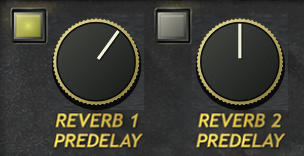
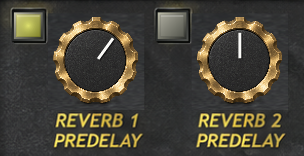
Add high-resolution raised brass knobs with crisp animated indicators

Changed region(s): [[0.6217, 0.1026, 0.9474, 0.7179], [0.148, 0.1026, 0.4737, 0.7179]]

diff --git a/Source/PluginEditor.cpp b/Source/PluginEditor.cpp
@@ -48,6 +48,7 @@ void UnpluggedEditor::Skin::drawButtonBackground(juce::Graphics& g,juce::Button&
     const bool lit=static_cast<bool>(b.getProperties().getWithDefault("colourSelector",false))
         ? static_cast<bool>(b.getProperties().getWithDefault("lit",true)) : b.getToggleState();
     auto r=b.getLocalBounds().toFloat().reduced(1);
+    if(down)r.translate(1,1);
     const bool small=r.getWidth()<45;
     g.setColour(juce::Colour(0xcc030403)); g.fillRect(r.translated(2,3));
     g.setGradientFill(juce::ColourGradient(juce::Colour(0xff0a0c0d),r.getTopLeft(),
@@ -82,7 +83,7 @@ void UnpluggedEditor::Skin::drawButtonText(juce::Graphics& g,juce::TextButton& b
         LookAndFeel_V4::drawButtonText(g,b,over,down); return;
     }
     g.setColour(juce::Colour(0xff25271a)); g.setFont(juce::Font(juce::FontOptions(21.0f,juce::Font::bold)));
-    g.drawText(b.getButtonText(),b.getLocalBounds(),juce::Justification::centred);
+    g.drawText(b.getButtonText(),b.getLocalBounds().translated(down?1:0,down?1:0),juce::Justification::centred);
 }
 void UnpluggedEditor::Skin::drawRotarySlider(juce::Graphics& g,int x,int y,int w,int h,
     float pos,float start,float end,juce::Slider& s)
@@ -92,40 +93,21 @@ void UnpluggedEditor::Skin::drawRotarySlider(juce::Graphics& g,int x,int y,int w
         s.getComponentID()=="balance"?816:430,40,s.getComponentID()=="balance"?51:94);
     auto r=juce::Rectangle<float>(static_cast<float>(x),static_cast<float>(y),static_cast<float>(w),static_cast<float>(h)).reduced(5);
     const float cx=r.getCentreX(),cy=r.getCentreY(),radius=std::min(r.getWidth(),r.getHeight())*.5f;
-    g.setColour(juce::Colour(0xd0000000));g.fillEllipse(cx-radius-1,cy-radius+2,2*radius+3,2*radius+3);
-    juce::Path ring;
-    constexpr int teeth=64;
-    for(int i=0;i<teeth*2;++i) {
-        const float a=juce::MathConstants<float>::twoPi*static_cast<float>(i)/static_cast<float>(teeth*2);
-        const float rad=radius-(i%2?1.2f:0.0f);
-        const float px=cx+std::sin(a)*rad,py=cy-std::cos(a)*rad;
-        if(i==0)ring.startNewSubPath(px,py);else ring.lineTo(px,py);
-    }
-    ring.closeSubPath();
-    g.setGradientFill(juce::ColourGradient(juce::Colour(0xffefe29b),cx-radius,cy-radius,
-        juce::Colour(0xff847334),cx+radius,cy+radius,false));g.fillPath(ring);
-    g.setColour(juce::Colour(0xffd8cd7c).withAlpha(.7f));g.strokePath(ring,juce::PathStrokeType(.6f));
-    const float face=radius-4.0f;
-    g.setGradientFill(juce::ColourGradient(juce::Colour(0xff454742),cx-face,cy-face,
-        juce::Colour(0xff161917),cx+face,cy+face,false));
-    g.fillEllipse(cx-face,cy-face,2*face,2*face);
-    g.setColour(juce::Colour(0xff070a09));g.drawEllipse(cx-face,cy-face,2*face,2*face,1.5f);
-    {
-        juce::Graphics::ScopedSaveState save(g);juce::Path circle;circle.addEllipse(cx-face+1,cy-face+1,2*face-2,2*face-2);
-        g.reduceClipRegion(circle);
-        juce::Random noise(0x7143);
-        for(int i=0;i<650;++i) {
-            const float px=cx-face+noise.nextFloat()*2*face,py=cy-face+noise.nextFloat()*2*face;
-            g.setColour((i%2?juce::Colours::white:juce::Colours::black).withAlpha(.06f));g.fillRect(px,py,.7f,.7f);
-        }
-    }
+    // High-resolution, alpha-cut brass body keeps its lighting fixed while the
+    // crisp vector indicator follows the parameter. The approved panel is intact.
+    jassert(knobBody.isValid());
+    const float margin=s.getComponentID()=="balance"?0.0f:5.0f;
+    const auto body=juce::Rectangle<float>(static_cast<float>(x),static_cast<float>(y),static_cast<float>(w),static_cast<float>(h)).expanded(margin);
+    g.setImageResamplingQuality(juce::Graphics::highResamplingQuality);
+    g.drawImage(knobBody,body);
     const float angle=start+pos*(end-start);
+    const float thickness=juce::jmax(1.8f,static_cast<float>(w)*.03f);
     g.setColour(juce::Colours::black.withAlpha(.5f));
     g.drawLine(cx+std::sin(angle)*radius*.08f+1,cy-std::cos(angle)*radius*.08f+1,
-        cx+std::sin(angle)*radius*.88f+1,cy-std::cos(angle)*radius*.88f+1,3.5f);
-    g.setColour(juce::Colour(0xfff4f3de));
+        cx+std::sin(angle)*radius*.67f+1,cy-std::cos(angle)*radius*.67f+1,thickness+.5f);
+    g.setColour(juce::Colour(0xfffafaf7));
     g.drawLine(cx+std::sin(angle)*radius*.08f,cy-std::cos(angle)*radius*.08f,
-        cx+std::sin(angle)*radius*.88f,cy-std::cos(angle)*radius*.88f,3.0f);
+        cx+std::sin(angle)*radius*.67f,cy-std::cos(angle)*radius*.67f,thickness);
 }
 juce::Font UnpluggedEditor::Skin::getPopupMenuFont() {return juce::Font(juce::FontOptions(21.0f));}
 void UnpluggedEditor::Skin::drawPopupMenuBackground(juce::Graphics& g,int w,int h)
@@ -146,7 +128,7 @@ void UnpluggedEditor::Skin::drawPopupMenuItem(juce::Graphics& g,const juce::Rect
 UnpluggedEditor::UnpluggedEditor(UnpluggedProcessor& p)
     : AudioProcessorEditor(p),processor(p),
       artwork(juce::ImageFileFormat::loadFrom(BinaryData::claunpluggedoriginal_png,BinaryData::claunpluggedoriginal_pngSize)),
-      skin(artwork)
+      skin(artwork,juce::ImageFileFormat::loadFrom(BinaryData::knobbody_png,BinaryData::knobbody_pngSize))
 {
     setLookAndFeel(&skin); addAndMakeVisible(controls); controls.setInterceptsMouseClicks(false,true);
     const std::array<juce::String,8> ids {"input","bass","treble","compress","reverb1","reverb2","delay","output"};

diff --git a/Source/PluginEditor.h b/Source/PluginEditor.h
@@ -15,7 +15,7 @@ private:
     class Skin final : public juce::LookAndFeel_V4
     {
     public:
-        explicit Skin(juce::Image image):art(std::move(image)) {}
+        Skin(juce::Image image,juce::Image bodyImage):art(std::move(image)),knobBody(std::move(bodyImage)) {}
         int getSliderThumbRadius(juce::Slider& s) override { return s.isVertical()?55:10; }
         void drawLinearSlider(juce::Graphics&,int,int,int,int,float,float,float,
             juce::Slider::SliderStyle,juce::Slider&) override;
@@ -27,7 +27,7 @@ private:
         void drawPopupMenuItem(juce::Graphics&,const juce::Rectangle<int>&,bool,bool,bool,bool,bool,
             const juce::String&,const juce::String&,const juce::Drawable*,const juce::Colour*) override;
     private:
-        juce::Image art;
+        juce::Image art,knobBody;
     };
     UnpluggedProcessor& processor;
     juce::Image artwork;

diff --git a/Docs/UI-v0.1.2.md b/Docs/UI-v0.1.2.md
@@ -1,0 +1,21 @@
+# Interface v0.1.2 — acabamento em relevo
+
+Mantém o menu de presets no topo e as categorias da v0.1.1.
+
+O corpo dos knobs usa uma camada PNG transparente de 1254 × 1254 pixels,
+com aro de latão escovado recortado, chanfro elevado, reflexos fixos e sombra
+de contato. A face central é cinza fosca texturizada. Um ponteiro branco
+vetorial é desenhado separadamente conforme o valor do parâmetro, mantendo
+nitidez ao redimensionar a janela e iluminação estável durante o giro.
+
+Os botões de lente amarela/cinza conservam suas bordas metálicas e ganham
+deslocamento visual ao pressionar. Os controles continuam ligados aos
+parâmetros e à automação da DAW.
+
+`Assets/cla-unplugged-original.png` permanece byte a byte igual ao arquivo
+aprovado. O corpo novo fica em `Assets/knob-body.png`.
+
+As alterações funcionais passaram pelas duas suítes locais: DSP/presets e
+processador/interface, incluindo carga do VST3, menu completo, modos, estados
+luminosos, automação dos knobs e redimensionamento. A publicação Windows
+também exige todos os testes e a inspeção PE AMD64.

diff --git a/README.md b/README.md
@@ -109,8 +109,8 @@ em camadas durante a execução para responder ao áudio e à automação. O
 seletor de presets e o bypass ficam em uma barra fina acima da arte principal.
 O menu segue a referência: Female Vocals, Male Vocals, Lead Vocals,
 Backing & Choir, Speech, Drums, Percussion, Guitars & Bass, Strings,
-Keys & Synths e Brass & Winds. Os knobs têm aro dourado serrilhado, face
-escura texturizada e indicador branco; os botões possuem relevo e estados
+Keys & Synths e Brass & Winds. Os knobs têm aro de latão escovado em relevo,
+textura de alta resolução e indicador branco vetorial; os botões possuem relevo e estados
 aceso/apagado ligados aos parâmetros da DAW.
 
 ## Compilar no Windows

diff --git a/Docs/RELEASE_NOTES.md b/Docs/RELEASE_NOTES.md
@@ -1,7 +1,7 @@
 Plugin VST3 e aplicativo standalone para **Windows x64**, em C++17/JUCE 8.0.12.
 
 - Seletor de presets na barra superior, com submenus por categoria como na referência.
-- Knobs com aro dourado serrilhado, face escura texturizada e indicador branco.
+- Knobs com aro de latão escovado em relevo, textura em alta resolução e indicador branco vetorial.
 - Botões com moldura metálica, relevo e estados amarelo aceso/cinza apagado.
 - 152 presets: preserva os 151 anteriores e acrescenta Default / all modules bypassed.
 - Menu com categorias separadas para Guitars & Bass e Strings.
